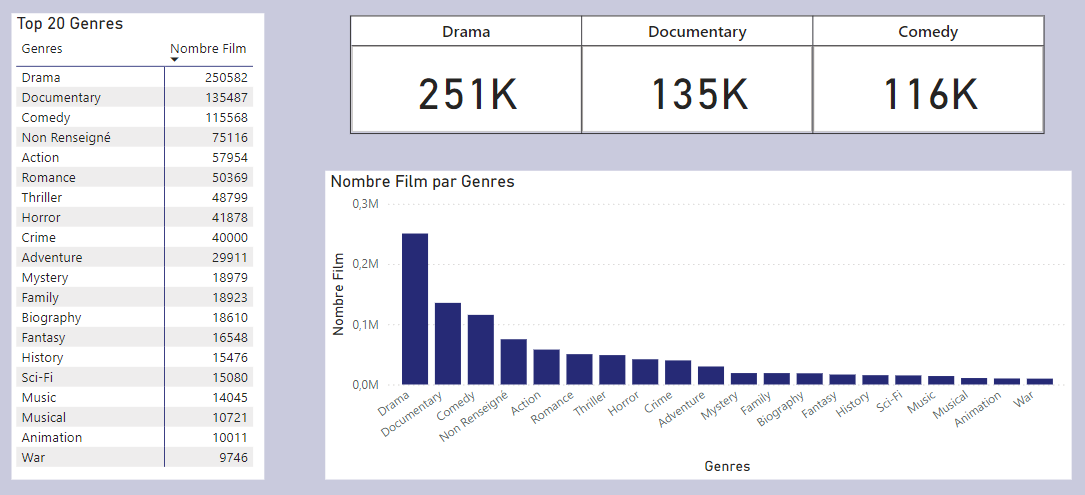
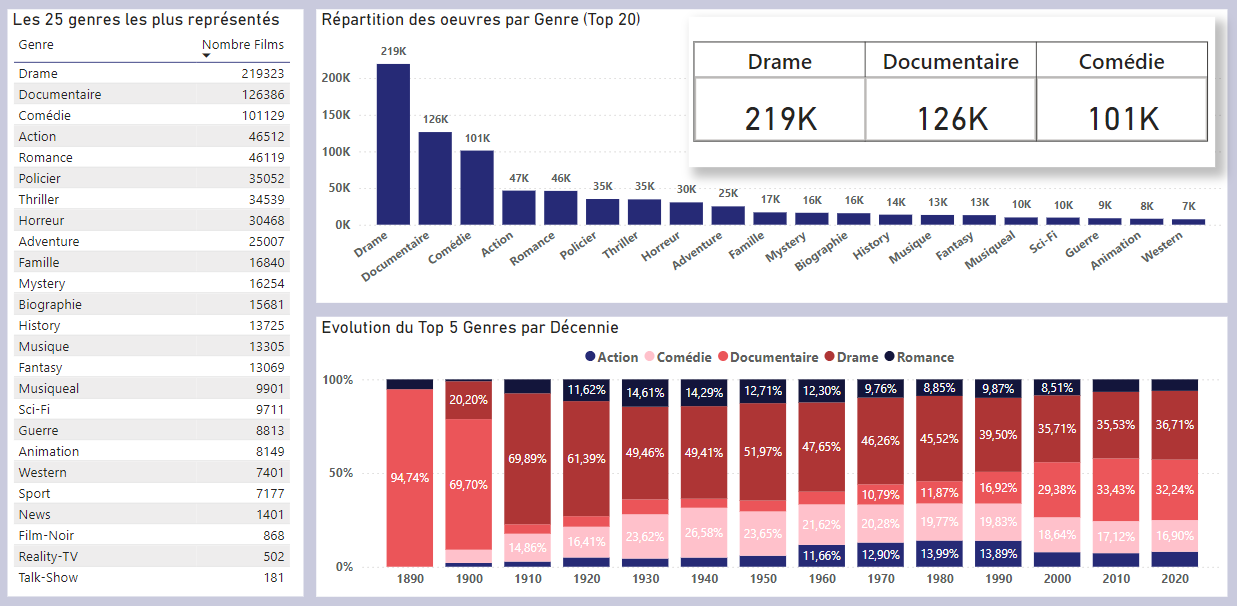
up kpi

diff --git a/donnees/md/analyse_kpi.md b/donnees/md/analyse_kpi.md
@@ -54,32 +54,43 @@ Les analyses porteront sur :
 - Nombre total d'oeuvres (hors films Adulte) : ***834 859***
 - Ratio des Supports : ***70,3% Cinéma, 29,7% Télévision***
 - **Evolution dans le temps** :
-  - Le cinéma connait une première période de croissance entre les 2 guerres mondiales, puis connait à partir des années 2000 une très forte croissance consécutive à l'***explosion*** d'internet et l'apparition des Platformes de Streaming.
+  - Le cinéma connait une première période de croissance entre les 2 guerres mondiales, puis connait à partir des années 2000 une très forte croissance consécutive à l'***explosion*** d'internet et l'apparition des Plateformes de Streaming.
   - La télévision ***suit cette courbe*** à partir de 1950, dans une moindre mesure.
 - Le nombre d'oeuvres cinématographiques restent pour chaque décennie **entre 40 et 50% supérieur** au nombre de Séries télévisées.
 
 ---
 
-### Fréquences des Films par Genre
+### Fréquences des Films par Genre au Cinéma
 <br>
 
 ![genres](../images/kpi/4_genres.PNG)
 ***Source : ImdB title.basics***
 
-- 3 Genres (Drame, Documentaire, Comédie) représentent ***72% des films***
-- Le ***documentaire*** est particulièrement présent dans la base de données.
+- 3 Genres (Drame, Documentaire, Comédie) représentent ***79% des films***
+- Le ***Drame*** occupe depuis toujours la 1ère place des genres de films.
+- La période ***phare*** pour les films d'action est entre 1660 et 2000
+- Depuis les années 2000, le ***documentaire*** ne cesse de croitre et représente 30% des oeuvres dans le top 5 des genres par décennie.
 
 ---
 
-### Evolution du nombre de Films dans le temps
+### Films par Genre 2000-2024 au Cinéma
 <br>
 
-![décennie](../images/kpi/5_evolution_film.PNG)
+![genres_2000](../images/kpi/4_genres_2000_2020.PNG)
 ***Source : ImdB title.basics***
 
-- Les 3 décennies les plus prolifiques sont ***2000s, 2010s, 2020s***
-- Depuis les années 2000, le ***documentaire*** est en forte expansion.
-- Les années prolifiques pour le film d'Action sont entre ***1960 et 2000***
+- Une vue plus détaillée de la répartition des genres de films sur la période la plus prolifique (2000 - 2024)
+
+---
+
+### Séries par Genre 2000-2024 à la télévision
+<br>
+
+![genre_tv](../images/kpi/4_genres_tv.PNG)
+
+- La répartition des genres à la télévision est différente, avec un place dédiée aux Séries ***'***Talk-Show'*** et ***'TV Réalité'***
+- La ***Comédie*** est le genre le plus présent à la télévision ; qui reste donc un ***divertissement*** pour le public.
+- Le ***Drame*** a toujours une place importante, l'objectif étant de créer des ***émotions*** aux téléspectateurs.
 
 ---
 ### Répartition des Films par Pays
@@ -88,6 +99,9 @@ Les analyses porteront sur :
 ![Pays](../images/kpi/7_pays.PNG)
 ***Source : TmdB Full***
 
+- L'***Amérique*** a produit ***37,67%*** des oeuvres cinématographiques et télévisuelles et s'affirme comme leader dans la production.
+- 
+- 
 
 ---
 ### Films les mieux notés
